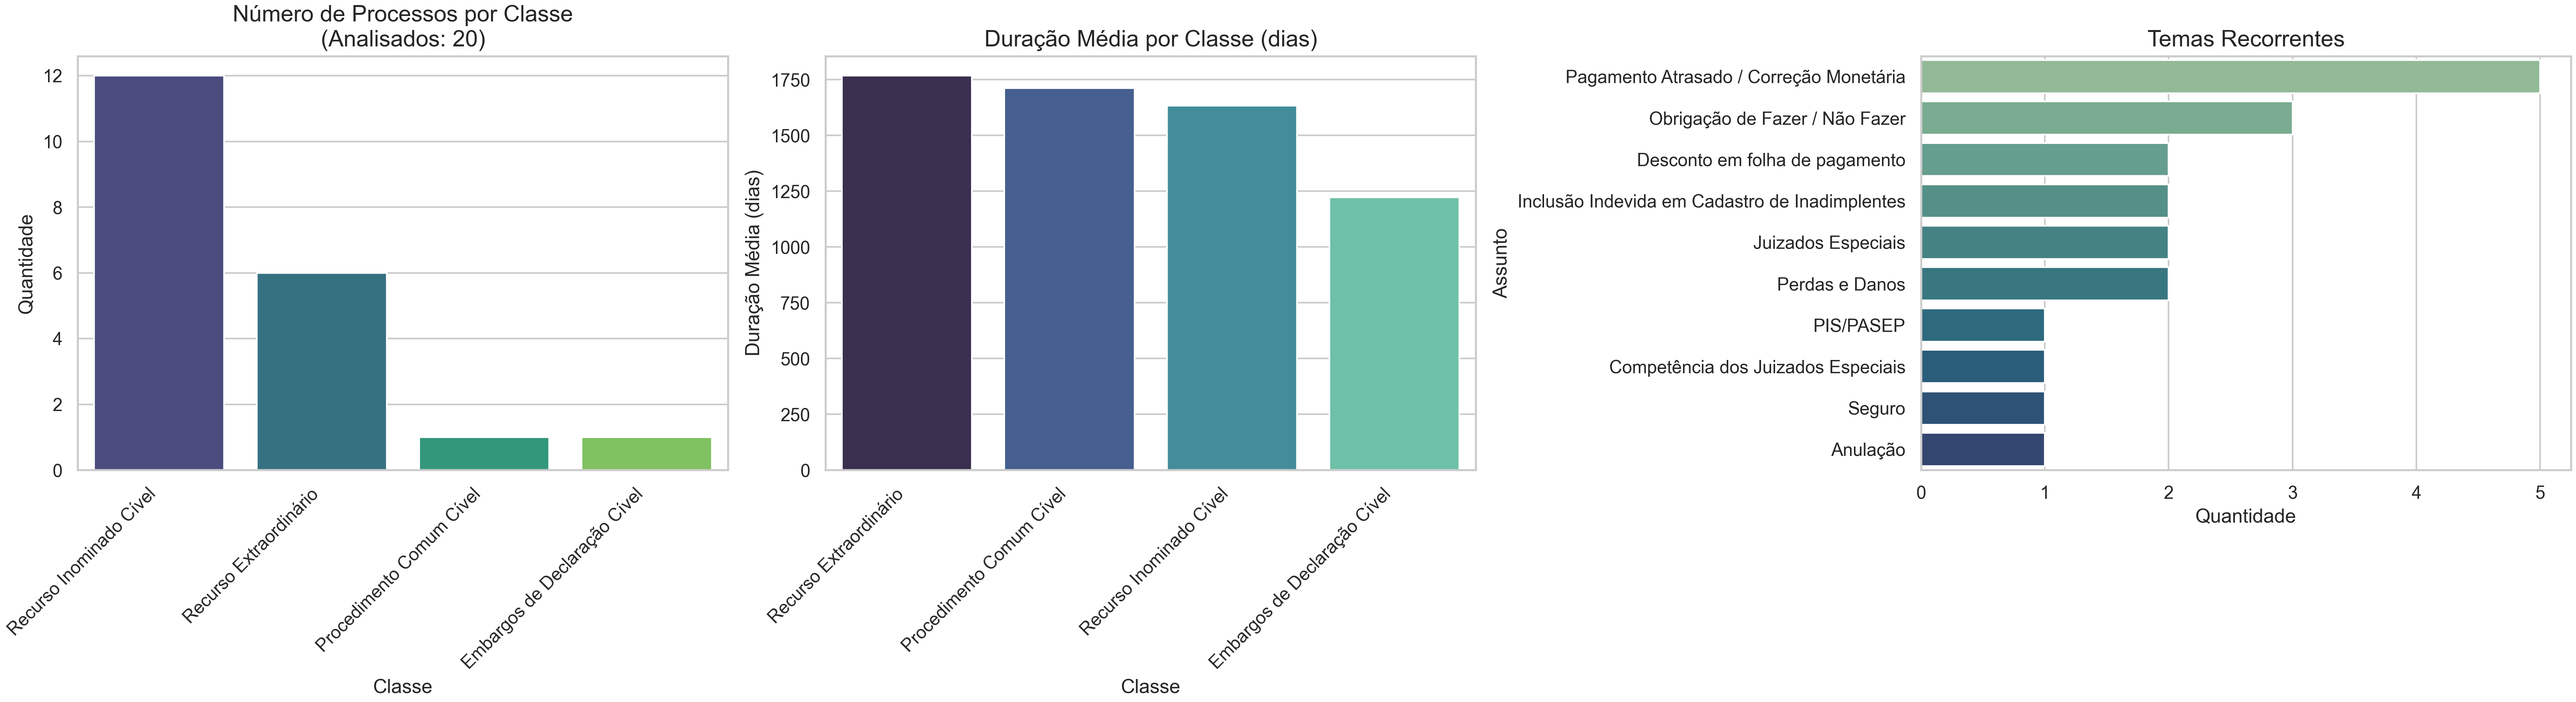
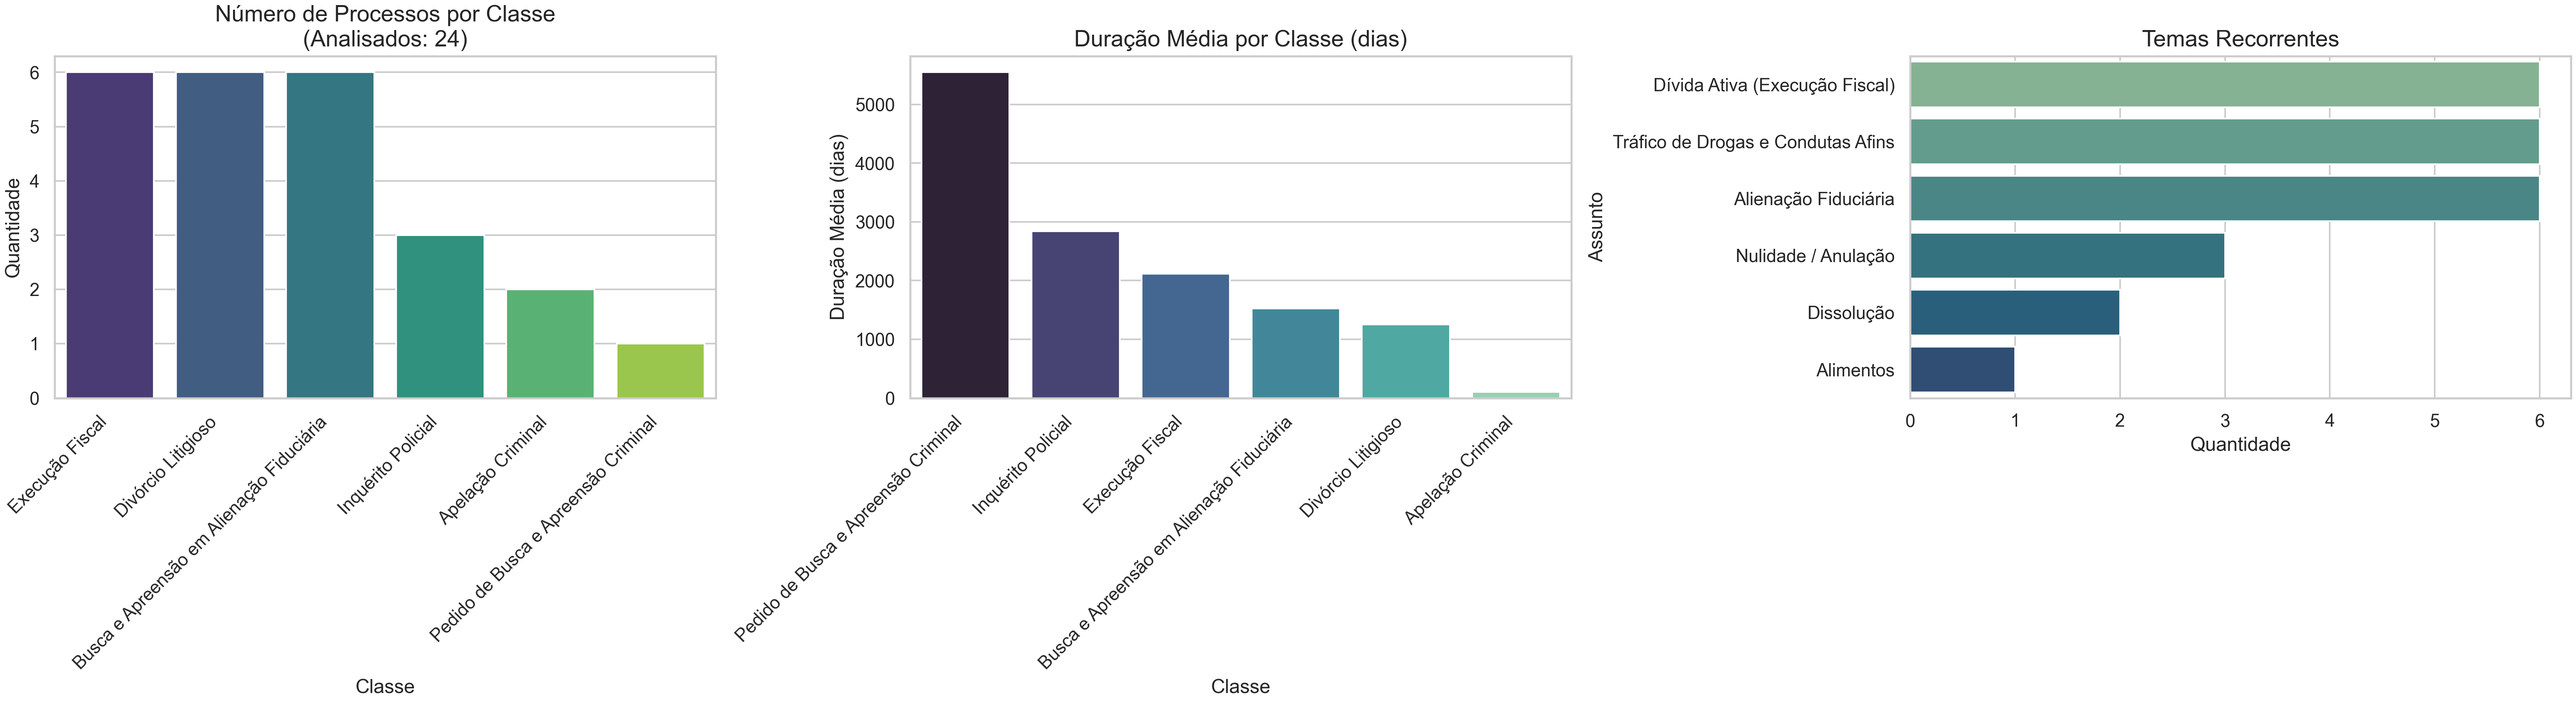
feat: Adicionar projeto no repositório

diff --git a/api_tjpe.py b/api_tjpe.py
@@ -1,35 +1,45 @@
 import requests
 import json
 import csv
-from datetime import datetime
 
+# Caso necessário, alterar chave pós "ApiKey" pela chave atualizada do site do CNJ
 url = "https://api-publica.datajud.cnj.jus.br/api_publica_tjpe/_search"
 headers = {
-    'Authorization': 'ApiKey SUA_CHAVE_AQUI',
+    'Authorization': 'ApiKey cDZHYzlZa0JadVREZDJCendQbXY6SkJlTzNjLV9TRENyQk1RdnFKZGRQdw==',
     'Content-Type': 'application/json'
 }
 
-payload = json.dumps({
-    "size": 100, 
-    "query": {"match_all": {}},
-    "_source": [
-        "numeroProcesso",
-        "classe.nome",
-        "orgaoJulgador.nome",
-        "assuntos.nome",
-        "dataAjuizamento",
-        "dataBaixa"
-    ]
-})
+total = 25
 
-response = requests.post(url, headers=headers, data=payload)
-dados = response.json()
+queries = [
+    {"match": {"classe.nome": "Execução Fiscal"}},
+    {"match": {"classe.nome": "Divórcio Litigioso"}},
+    {"match": {"classe.nome": "Busca e Apreensão em Alienação Fiduciária"}},
+    {"match": {"assuntos.nome": "Tráfico de Drogas e Condutas Afins"}}
+]
+
+todos_os_processos = []
+tamanho_busca = total // len(queries)
+
+for query in queries:
+    payload = json.dumps({
+        "size": tamanho_busca,
+        "query": query,
+        "_source": [
+            "numeroProcesso", "classe.nome", "orgaoJulgador.nome",
+            "assuntos.nome", "dataAjuizamento", "dataBaixa"
+        ]
+    })
+    
+    response = requests.post(url, headers=headers, data=payload)
+    dados = response.json()
+    todos_os_processos.extend(dados.get("hits", {}).get("hits", []))
 
 with open("bd.csv", "w", newline="", encoding="utf-8-sig") as f:
     writer = csv.writer(f)
     writer.writerow(["id_processo", "classe", "orgao_julgador", "assunto", "data_inicio", "data_fim"])
 
-    for item in dados.get("hits", {}).get("hits", []):
+    for item in todos_os_processos:
         fonte = item.get("_source", {})
         writer.writerow([
             fonte.get("numeroProcesso", ""),

diff --git a/analise_judiciario.py b/analise_judiciario.py
@@ -11,8 +11,6 @@ df['data_fim'] = pd.to_datetime(df['data_fim'], errors='coerce', utc=True).dt.tz
 
 hoje = pd.Timestamp.now().normalize()
 df['data_fim'] = df['data_fim'].fillna(hoje)
-
-# Calcular duração em dias
 df['duracao'] = (df['data_fim'] - df['data_inicio']).dt.days
 
 processos_por_classe = df['classe'].value_counts()
@@ -32,7 +30,6 @@ axes[0].set_ylabel("Quantidade", fontsize=12)
 axes[0].tick_params(axis="x", rotation=45)
 plt.setp(axes[0].get_xticklabels(), ha="right")
 
-
 #Gráfico 2: Duração X Classe
 sns.barplot(x=duracao_media.index, y=duracao_media.values, palette="mako", ax=axes[1], hue=duracao_media.index, legend=False)
 axes[1].set_title("Duração Média por Classe (dias)", fontsize=14)
@@ -40,7 +37,6 @@ axes[1].set_xlabel("Classe", fontsize=12)
 axes[1].set_ylabel("Duração Média (dias)", fontsize=12)
 axes[1].tick_params(axis="x", rotation=45)
 plt.setp(axes[1].get_xticklabels(), ha="right")
-
 
 # Gráfico 3: Asssuntos tratados
 sns.barplot(x=processos_por_assunto.values, y=processos_por_assunto.index, palette="crest", ax=axes[2], hue=processos_por_assunto.index, legend=False)

diff --git a/README.md b/README.md
@@ -1,19 +1,26 @@
-# 📊 Análise de Processos Judiciais
+# 📊 Análise Exploratória de Dados de Processos Judiciais do TJPE
 
-Este projeto tem como objetivo analisar dados de processos judiciais obtidos por meio da API Pública do DataJud, disponibilizada pelo Conselho Nacional de Justiça (CNJ).
+Este projeto é um case de Data Science que tem como objetivo analisar dados de processos judiciais obtidos por meio da API Pública do DataJud, disponibilizada pelo Conselho Nacional de Justiça (CNJ) para extrair insights sobre a volumetria e a duração de diferentes classes de processos no Tribunal de Justiça de Pernambuco (TJPE).
 
 ## Objetivo
-- Consumo de API e manipulação de dados com **Python** e **pandas**.
-- Cálculo da duração média dos processos.
-- Visualizações gráficas usando **matplotlib** e **seaborn**, facilitando a compreensão de padrões nos dados.
+- Realizar a ingestão de dados judiciais via **API REST** utilizando **Python** e a biblioteca **requests**.
+- Aplicar técnicas de pré-processamento e engenharia de atributos com pandas para calcular métricas de duração.
+- Desenvolver um dashboard para análise exploratória com **matplotlib** e **seaborn** para comunicar os insights gerados.
 
 ## Destaques
-- Uso prático de **APIs públicas** para aquisição de dados.
-- Transformação e análise de dados estruturados.
-- Visualizações claras que podem auxiliar em decisões ou relatórios administrativos.
+- Construção de um pipeline de dados end-to-end, da extração via API até a visualização.
+- Aplicação de técnicas de limpeza de dados, como tratamento de datas e valores ausentes.
+- Geração de um **dashboard** que traduz dados brutos em insights sobre a volumetria e a eficiência do sistema judiciário.
 
 > Este projeto é uma forma de observar **aplicações de dados na área jurídica**, combinando análise de dados e desenvolvimento Python de forma prática.
 
+## Estrutura do Repositório
+
+├── api_tjpe.py             # Script de ingestão de dados via API
+├── analise_judiciario.py   # Script para EDA e visualização
+├── bd.csv                  # Dados brutos (gerado por api_tjpe.py)
+├── analise_judiciaria.png  # Dashboard com os resultados (gerado por analise_judiciario.py)
+└── README.md               # Documentação do projeto
 
 ## Como Executar
 1. Instale as dependências:
@@ -21,16 +28,13 @@ Este projeto tem como objetivo analisar dados de processos judiciais obtidos por
 ```pip install requests pandas matplotlib seaborn```
 
 2. Obtenha uma chave de acesso à API Pública do DataJud em: [https://www.cnj.jus.br/sistemas/datajud/api-publica/](https://www.cnj.jus.br/sistemas/datajud/api-publica/)
-3. Substitua `"SUA_CHAVE_AQUI"` no código pelo seu token de acesso.
+3. Substitua a chave antiga no código pelo seu token de acesso caso necessário.
 4. Execute o script:
-```python analise_juridica.py```
-
-## Gráficos Gerados
-1. **Número de Processos por Tipo**
-![Número de Processos por Tipo](processos_por_tipo.png)
-
-2. **Duração Média dos Processos por Tipo**
-![Duração Média dos Processos por Tipo](duracao_media_por_tipo.png)
+```python api_tjpe.py```
+Este script irá se conectar à API e criar o arquivo bd.csv com os dados dos processos.
+5. Execute o script:
+```python analise_judiciario.py```
+Este script irá ler o bd.csv, processar os dados e gerar a imagem analise_judiciaria.png com o dashboard final.
 
 ## Tecnologias Utilizadas
 - Python
@@ -38,3 +42,4 @@ Este projeto tem como objetivo analisar dados de processos judiciais obtidos por
 - matplotlib
 - seaborn
 - requests
+- json
